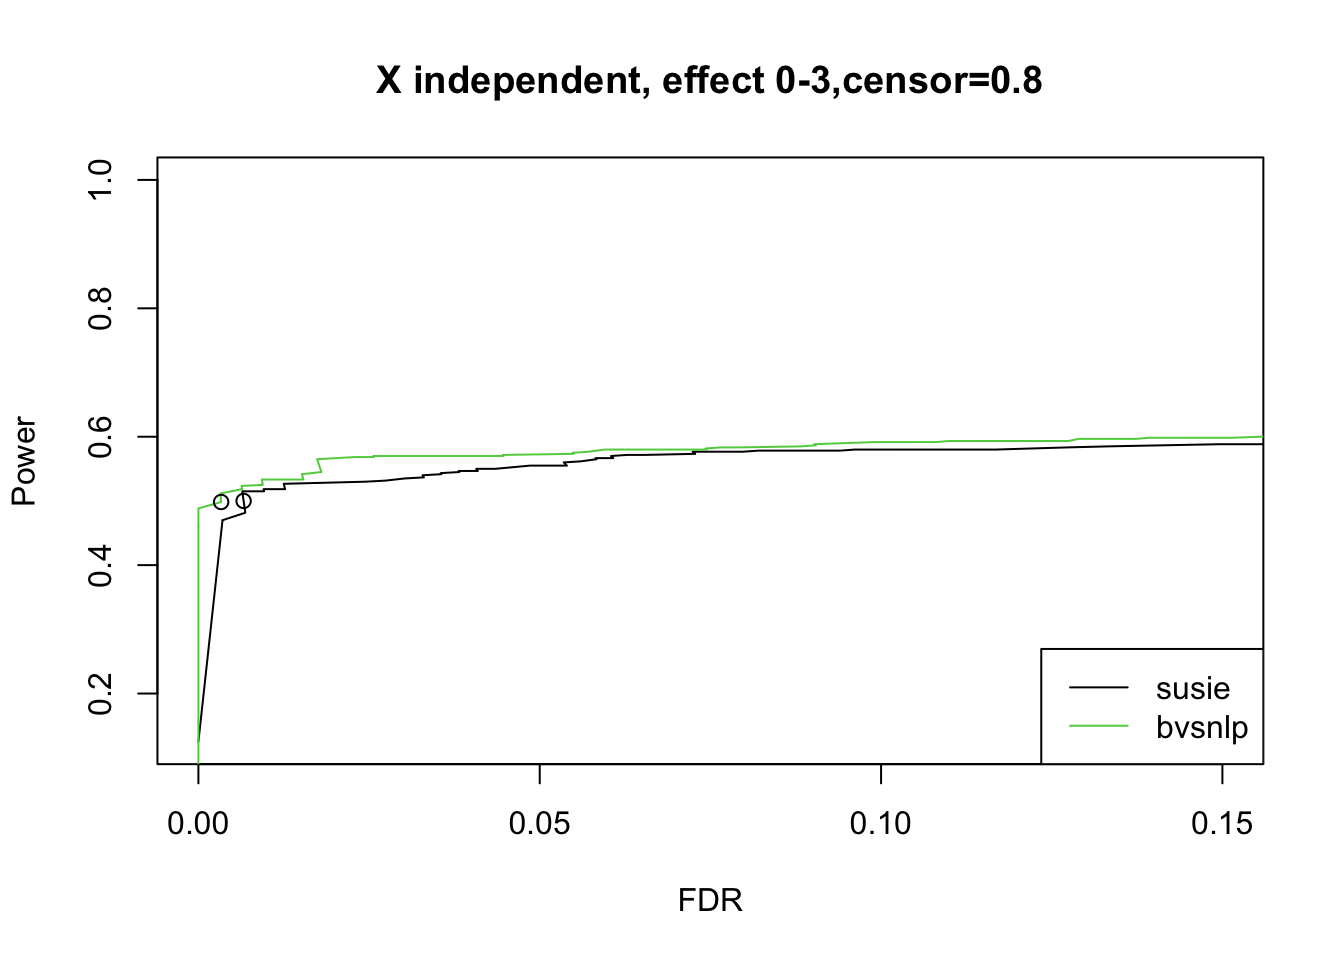
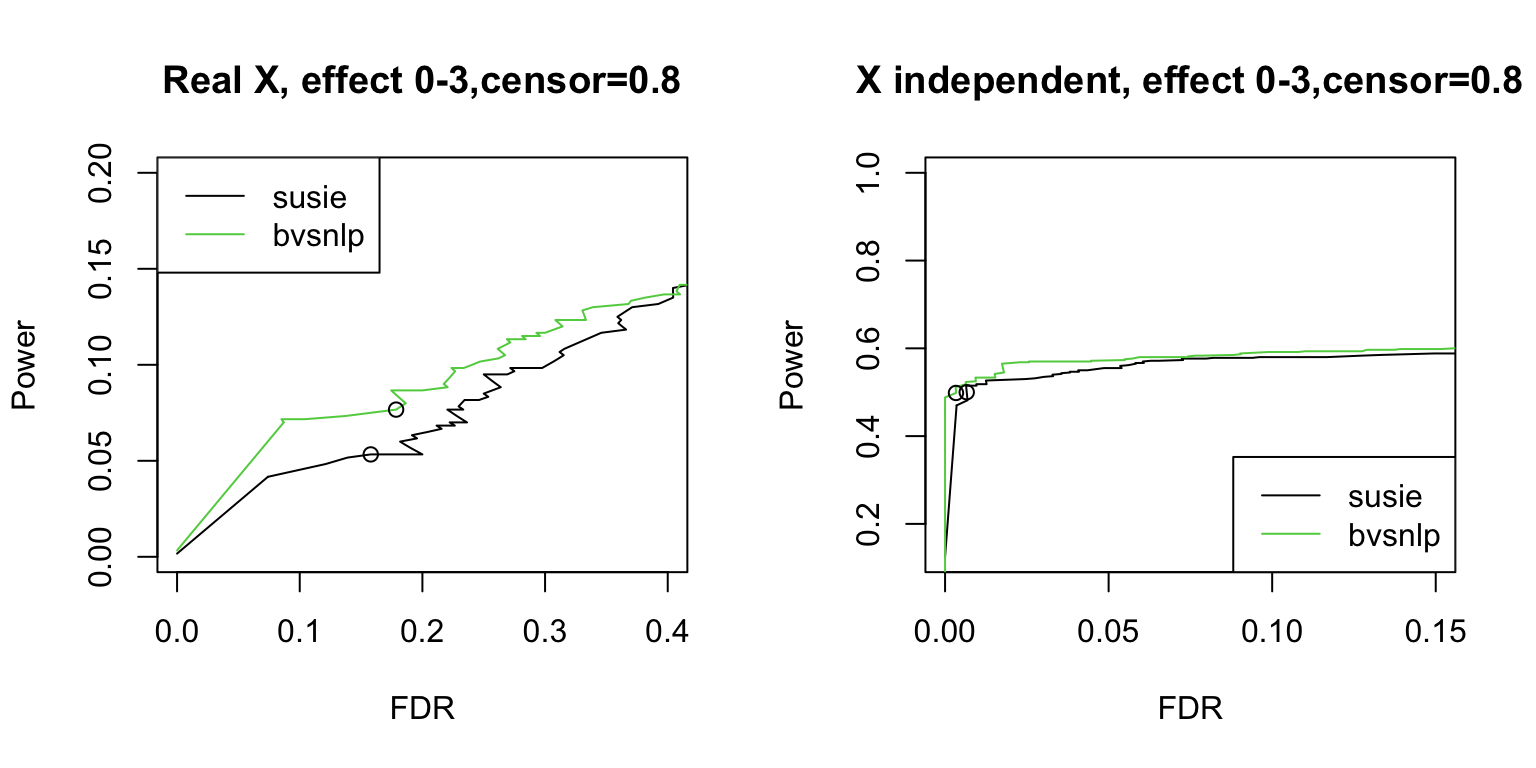
Build site.

diff --git a/docs/dsc_sim3.html b/docs/dsc_sim3.html
@@ -475,16 +475,16 @@ This reproducible <a href="http://rmarkdown.rstudio.com">R Markdown</a> analysis
 <div class="panel panel-default">
 <div class="panel-heading">
 <p class="panel-title">
-<a data-toggle="collapse" data-parent="#workflowr-checks" href="#strongRepositoryversionstrongahrefhttpsgithubcomyunqiyang0215survivalsusietree31ee43a8a75f0fb07ed869d1327b561755da1a99targetblank31ee43aa"> <span class="glyphicon glyphicon-ok text-success" aria-hidden="true"></span> <strong>Repository version:</strong> <a href="https://github.com/yunqiyang0215/survival-susie/tree/31ee43a8a75f0fb07ed869d1327b561755da1a99" target="_blank">31ee43a</a> </a>
+<a data-toggle="collapse" data-parent="#workflowr-checks" href="#strongRepositoryversionstrongahrefhttpsgithubcomyunqiyang0215survivalsusietreec684ba0ca98dbe3bc5a888d20dfd699db5bbdf8etargetblankc684ba0a"> <span class="glyphicon glyphicon-ok text-success" aria-hidden="true"></span> <strong>Repository version:</strong> <a href="https://github.com/yunqiyang0215/survival-susie/tree/c684ba0ca98dbe3bc5a888d20dfd699db5bbdf8e" target="_blank">c684ba0</a> </a>
 </p>
 </div>
[2 lines of base64/hex data omitted]
 <div class="panel-body">
 <p>
 Great! You are using Git for version control. Tracking code development and connecting the code version to the results is critical for reproducibility.
 </p>
 <p>
-The results in this page were generated with repository version <a href="https://github.com/yunqiyang0215/survival-susie/tree/31ee43a8a75f0fb07ed869d1327b561755da1a99" target="_blank">31ee43a</a>. See the <em>Past versions</em> tab to see a history of the changes made to the R Markdown and HTML files.
+The results in this page were generated with repository version <a href="https://github.com/yunqiyang0215/survival-susie/tree/c684ba0ca98dbe3bc5a888d20dfd699db5bbdf8e" target="_blank">c684ba0</a>. See the <em>Past versions</em> tab to see a history of the changes made to the R Markdown and HTML files.
 </p>
 <p>
 Note that you need to be careful to ensure that all relevant files for the analysis have been committed to Git prior to generating the results (you can use <code>wflow_publish</code> or <code>wflow_git_commit</code>). workflowr only checks the R Markdown file, but you know if there are other scripts or data files that it depends on. Below is the status of the Git repository when the results were generated:
@@ -551,6 +551,40 @@ Message
 </tr>
 </thead>
 <tbody>
+<tr>
+<td>
+Rmd
+</td>
+<td>
+<a href="https://github.com/yunqiyang0215/survival-susie/blob/c684ba0ca98dbe3bc5a888d20dfd699db5bbdf8e/analysis/dsc_sim3.Rmd" target="_blank">c684ba0</a>
+</td>
+<td>
+yunqiyang0215
+</td>
+<td>
+2023-04-26
+</td>
+<td>
+wflow_publish("analysis/dsc_sim3.Rmd")
+</td>
+</tr>
+<tr>
+<td>
+html
+</td>
+<td>
+<a href="https://rawcdn.githack.com/yunqiyang0215/survival-susie/dfa65fa94bb681f5987e675c85fcfff924467117/docs/dsc_sim3.html" target="_blank">dfa65fa</a>
+</td>
+<td>
+yunqiyang0215
+</td>
+<td>
+2023-04-26
+</td>
+<td>
+Build site.
+</td>
+</tr>
 <tr>
 <td>
 Rmd
@@ -989,10 +1023,28 @@ yunqiyang0215
 </div>
 <p>The dots indicate PIP threshold = 0.95.</p>
 </div>
-<div id="independent-x-censoring-0.8." class="section level3">
-<h3>4. independent X, censoring = 0.8.</h3>
-<p>Susie has ~1-1.5% less power than bvsnlp when fdr is around 0.1.</p>
-<pre class="r"><code>censor_lvl = 0.8
+<div id="realindependent-x-censoring-0.8." class="section level3">
+<h3>4. Real/independent X, censoring = 0.8.</h3>
+<p>For independent X, susie has ~1-1.5% less power than bvsnlp when fdr is around 0.1.</p>
+<pre class="r"><code>par(mfrow = c(1,2))
+censor_lvl = 0.8
+indx = which(susie$simulate.cor_type == &quot;real&quot; &amp; susie$simulate.censor_lvl == censor_lvl)
+pip.susie = unlist(lapply(indx, function(x) susie$susie.pip[[x]]))
+pip.bvsnlp = unlist(lapply(indx, function(x) bvsnlp$bvsnlp.pip[[x]]))
+is_effect = unlist(lapply(indx, function(x) susie$simulate.is_effect[[x]]))
+  
+ts = seq(from = 0, to = 1, by = 0.01)
+res.susie = calculate_tpr_vs_fdr(pip.susie, is_effect, ts)
+res.bvsnlp = calculate_tpr_vs_fdr(pip.bvsnlp, is_effect, ts)
+  
+  
+plot(res.susie[,2], res.susie[,1], type = &quot;l&quot;, xlim = c(0, 0.4), ylim = c(0,0.2), xlab = &quot;FDR&quot;, ylab = &quot;Power&quot;, main = paste0(&quot;Real X, effect 0-3&quot;, &quot;,censor=&quot;, censor_lvl))
+lines(res.bvsnlp[,2], res.bvsnlp[,1], type = &quot;l&quot;, col = 3)
+points(res.susie[96,2], res.susie[96, 1])
+points(res.bvsnlp[96,2], res.bvsnlp[96, 1])
+legend(&quot;topleft&quot;, legend = c(&quot;susie&quot;, &quot;bvsnlp&quot;), col = c(1,3), lty = 1)
+
+#####
 indx = which(susie$simulate.cor_type == &quot;independent&quot; &amp; susie$simulate.censor_lvl == censor_lvl)
 pip.susie = unlist(lapply(indx, function(x) susie$susie.pip[[x]]))
 pip.bvsnlp = unlist(lapply(indx, function(x) bvsnlp$bvsnlp.pip[[x]]))
@@ -1008,7 +1060,44 @@ lines(res.bvsnlp[,2], res.bvsnlp[,1], type = &quot;l&quot;, col = 3)
 points(res.susie[96,2], res.susie[96, 1])
 points(res.bvsnlp[96,2], res.bvsnlp[96, 1])
 legend(&quot;bottomright&quot;, legend = c(&quot;susie&quot;, &quot;bvsnlp&quot;), col = c(1,3), lty = 1)</code></pre>
-<p><img src="figure/dsc_sim3.Rmd/unnamed-chunk-6-1.png" width="672" style="display: block; margin: auto;" /></p>
+<p><img src="figure/dsc_sim3.Rmd/unnamed-chunk-6-1.png" width="768" style="display: block; margin: auto;" /></p>
+<p>
+<button type="button" class="btn btn-default btn-xs btn-workflowr btn-workflowr-fig" data-toggle="collapse" data-target="#fig-unnamed-chunk-6-1">
+Past versions of unnamed-chunk-6-1.png
+</button>
+</p>
+<div id="fig-unnamed-chunk-6-1" class="collapse">
+<div class="table-responsive">
+<table class="table table-condensed table-hover">
+<thead>
+<tr>
+<th>
+Version
+</th>
+<th>
+Author
+</th>
+<th>
+Date
+</th>
+</tr>
+</thead>
+<tbody>
+<tr>
+<td>
+<a href="https://github.com/yunqiyang0215/survival-susie/blob/dfa65fa94bb681f5987e675c85fcfff924467117/docs/figure/dsc_sim3.Rmd/unnamed-chunk-6-1.png" target="_blank">dfa65fa</a>
+</td>
+<td>
+yunqiyang0215
+</td>
+<td>
+2023-04-26
+</td>
+</tr>
+</tbody>
+</table>
+</div>
+</div>
 <br>
 <p>
 <button type="button" class="btn btn-default btn-workflowr btn-workflowr-sessioninfo" data-toggle="collapse" data-target="#workflowr-sessioninfo" style="display: block;">
